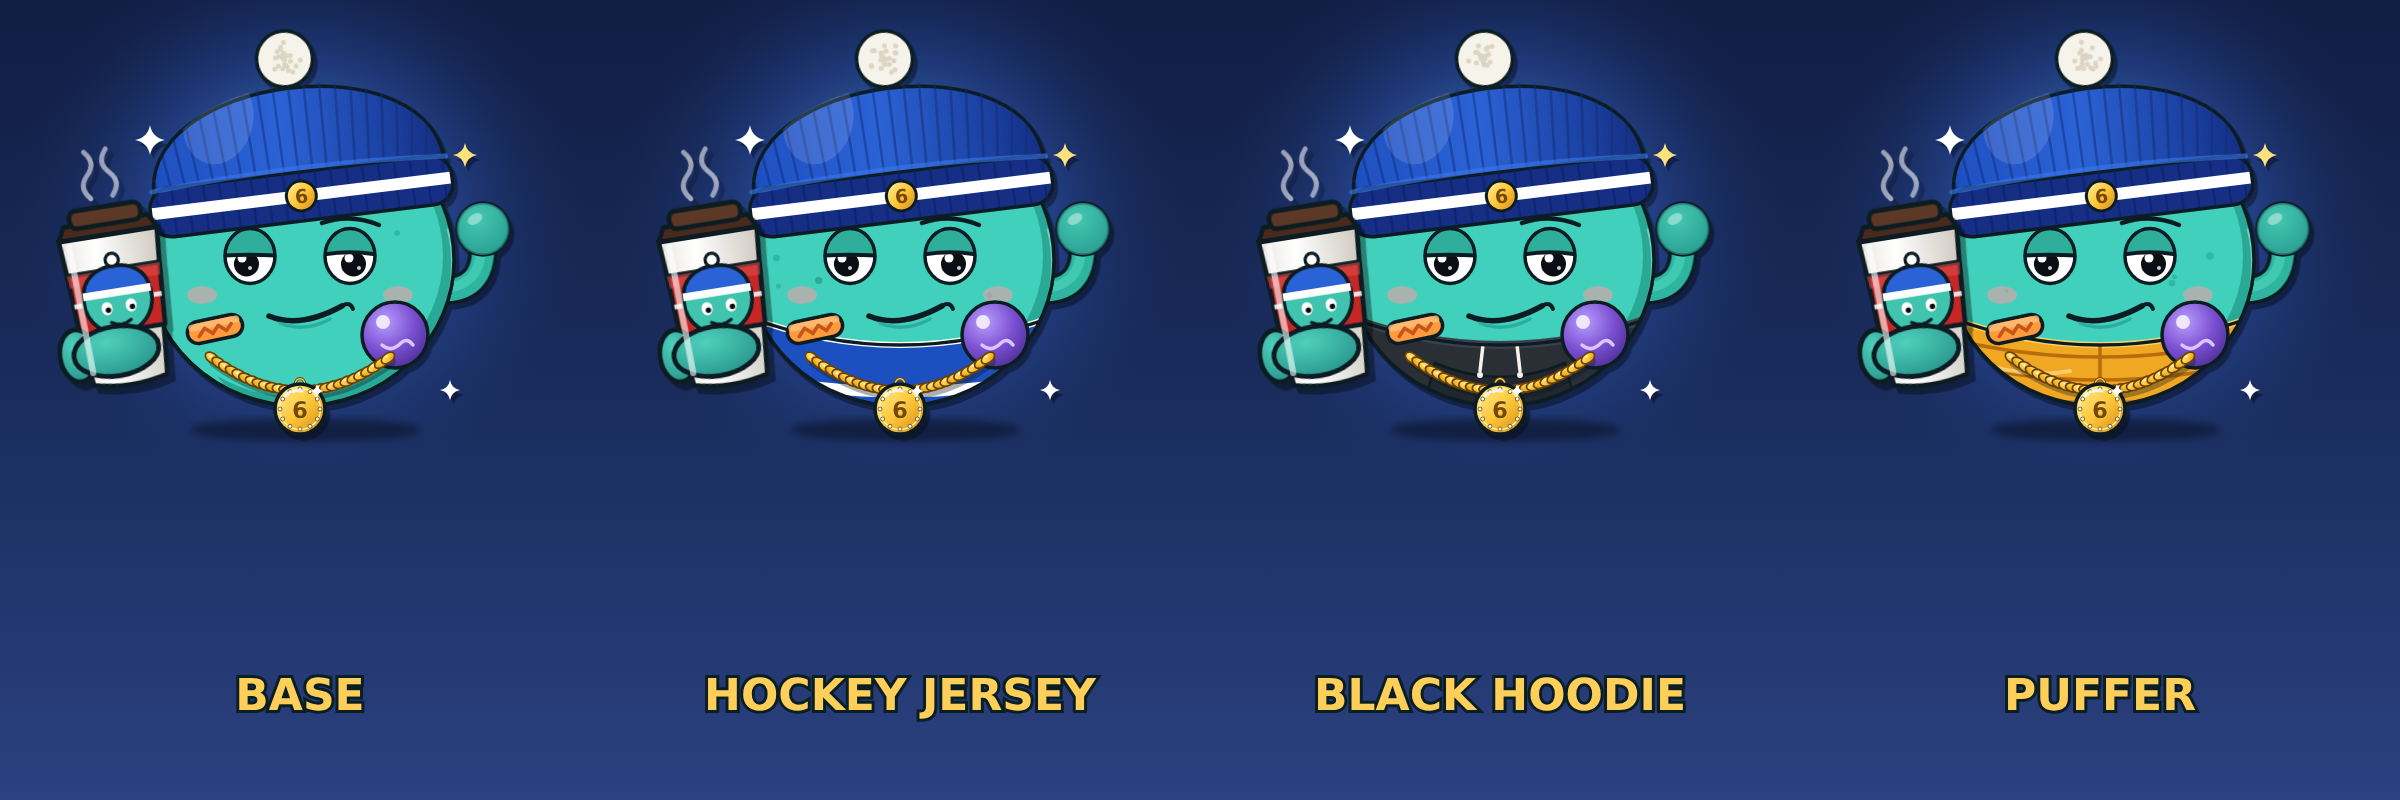
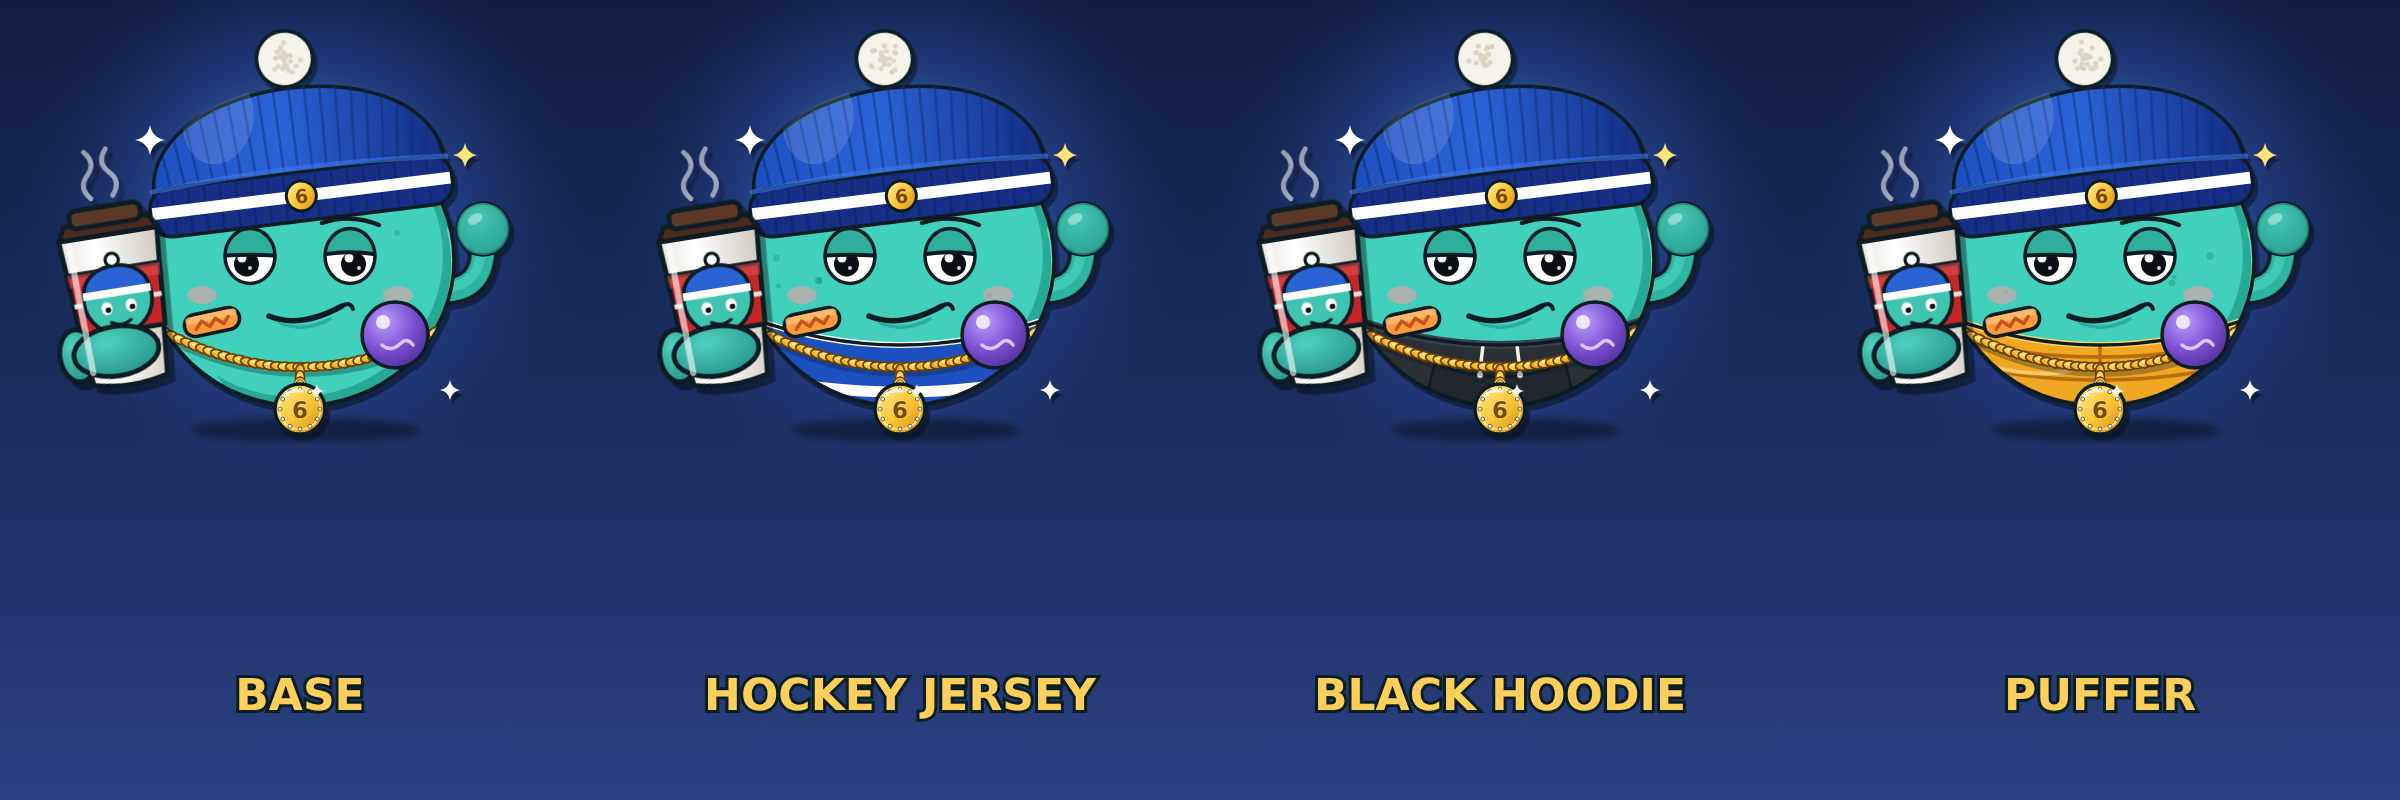
Rebrand v2.4: necklace-style chain wrapping the body
Claude-Session: https://claude.ai/code/session_01YLZ2csSozvptdvtP7YVaK8

diff --git a/studio/branding/rebrand-v2/cyto2d.js b/studio/branding/rebrand-v2/cyto2d.js
@@ -48,16 +48,17 @@ function cup(){return `<g transform="translate(-362,92) rotate(-9) scale(1.38)" 
  <path d="M-58 -96 L-52 90" stroke="#fff" stroke-width="9" stroke-linecap="round" opacity=".6"/>
 </g>`}
 
-function chain(){ // cuban-style links along a curve + bling pendant
- const P0=[-176,196],C=[0,326],P1=[176,196]; let links='';
- const N=26;
+function chain(){ // necklace wrapping around the body, pendant hanging at centre
+ const P0=[-300,128],C=[0,300],P1=[300,128]; let links='';
+ const N=40;
+ const link=(x,y,ang,i)=>{const rot=ang+(i%2?90:0), rx=i%2?8.5:14, ry=i%2?14:9;
+  return `<ellipse cx="${x.toFixed(1)}" cy="${y.toFixed(1)}" rx="${rx}" ry="${ry}" transform="rotate(${rot.toFixed(1)} ${x.toFixed(1)} ${y.toFixed(1)})" fill="url(#gold)" stroke="#6b4100" stroke-width="3.5"/>`+(i%2===0?`<circle cx="${(x-3).toFixed(1)}" cy="${(y-3).toFixed(1)}" r="2.4" fill="#fffbe0" opacity=".9"/>`:'')};
  for(let i=0;i<=N;i++){const t=i/N; const x=(1-t)*(1-t)*P0[0]+2*(1-t)*t*C[0]+t*t*P1[0]; const y=(1-t)*(1-t)*P0[1]+2*(1-t)*t*C[1]+t*t*P1[1];
-  const dx=2*(1-t)*(C[0]-P0[0])+2*t*(P1[0]-C[0]), dy=2*(1-t)*(C[1]-P0[1])+2*t*(P1[1]-C[1]); const ang=Math.atan2(dy,dx)*180/Math.PI;
-  const rot=ang+(i%2?90:0), rx=i%2?9:15, ry=i%2?15:9.5;
-  links+=`<ellipse cx="${x.toFixed(1)}" cy="${y.toFixed(1)}" rx="${rx}" ry="${ry}" transform="rotate(${rot.toFixed(1)} ${x.toFixed(1)} ${y.toFixed(1)})" fill="url(#gold)" stroke="#6b4100" stroke-width="3.5"/>`;
-  if(i%2===0) links+=`<circle cx="${(x-3).toFixed(1)}" cy="${(y-3).toFixed(1)}" r="2.6" fill="#fffbe0" opacity=".9"/>`}
+  const dx=2*(1-t)*(C[0]-P0[0])+2*t*(P1[0]-C[0]), dy=2*(1-t)*(C[1]-P0[1])+2*t*(P1[1]-C[1]); links+=link(x,y,Math.atan2(dy,dx)*180/Math.PI,i)}
+ let drop=''; for(let k=0;k<3;k++) drop+=link(0,222+k*13,90,k+1);
  let gems=''; for(let i=0;i<12;i++){const a=i/12*6.283; gems+=`<circle cx="${(Math.cos(a)*40).toFixed(1)}" cy="${(Math.sin(a)*40).toFixed(1)}" r="4" fill="#e8fbff" stroke="#6b4100" stroke-width="1.6"/>`}
- return `<path d="M-176 196 Q0 326 176 196" fill="none" stroke="#0a1f24" stroke-width="22" stroke-linecap="round" opacity=".35" transform="translate(5 8)"/>${links}
+ return `<g clip-path="url(#bodyclip2)"><path d="M-300 128 Q0 300 300 128" fill="none" stroke="#0a1f24" stroke-width="22" stroke-linecap="round" opacity=".3" transform="translate(4 9)"/>${links}</g>
+ ${drop}
  <g transform="translate(0,298)"><ellipse cx="0" cy="-48" rx="10" ry="13" fill="none" stroke="#6b4100" stroke-width="6"/><ellipse cx="0" cy="-48" rx="10" ry="13" fill="none" stroke="#ffd95a" stroke-width="2.5"/>
   <circle r="50" fill="url(#gold)" ${O}/><circle r="41" fill="none" stroke="#fff3b0" stroke-width="3"/>${gems}
   <text y="17" text-anchor="middle" font-family="Arial Black, Impact, DejaVu Sans, sans-serif" font-weight="900" font-size="46" fill="#7a4a00" stroke="#fff3b0" stroke-width="1.5" paint-order="stroke">6</text>
@@ -117,9 +118,9 @@ function cyto(fit='none'){
  <path d="M-62 112 Q0 138 84 92" fill="none" stroke="#0a1f24" stroke-width="11" stroke-linecap="round"/>
  <path d="M84 92 Q100 82 106 98" fill="none" stroke="#0a1f24" stroke-width="8" stroke-linecap="round"/>
  <path d="M-40 126 Q10 146 60 118" fill="none" stroke="#1f8f86" stroke-width="7" stroke-linecap="round" opacity=".55"/>
- <g transform="translate(-170,138) rotate(-12)"><rect x="-56" y="-22" width="112" height="44" rx="22" fill="#ff9b3d" ${O}/><rect x="-52" y="-18" width="104" height="14" rx="7" fill="#ffc07a" opacity=".8"/><path d="M-34 8 L-20 -6 L-6 8 L8 -6 L22 8 L34 -4" fill="none" stroke="#c4541a" stroke-width="7" stroke-linecap="round" stroke-linejoin="round"/></g>
- <g transform="translate(190,150)"><circle r="66" fill="url(#nuc)" ${O}/><circle cx="-24" cy="-26" r="14" fill="#efe6ff"/><path d="M-26 20 Q-8 36 12 16 Q24 4 36 20" fill="none" stroke="#d8c8ff" stroke-width="7" stroke-linecap="round"/></g>
  ${chain()}
+ <g transform="translate(-176,124) rotate(-12)"><rect x="-56" y="-22" width="112" height="44" rx="22" fill="#ff9b3d" ${O}/><rect x="-52" y="-18" width="104" height="14" rx="7" fill="#ffc07a" opacity=".8"/><path d="M-34 8 L-20 -6 L-6 8 L8 -6 L22 8 L34 -4" fill="none" stroke="#c4541a" stroke-width="7" stroke-linecap="round" stroke-linejoin="round"/></g>
+ <g transform="translate(190,150)"><circle r="66" fill="url(#nuc)" ${O}/><circle cx="-24" cy="-26" r="14" fill="#efe6ff"/><path d="M-26 20 Q-8 36 12 16 Q24 4 36 20" fill="none" stroke="#d8c8ff" stroke-width="7" stroke-linecap="round"/></g>
  <g transform="rotate(-7 0 -150)">
   <path d="M-292 -150 C-312 -410 312 -410 292 -150Z" fill="url(#hat)" ${O}/>
   <g clip-path="url(#hatclip)">${ribs}<ellipse cx="-150" cy="-300" rx="70" ry="90" fill="#fff" opacity=".13" transform="rotate(20 -150 -290)"/></g>
